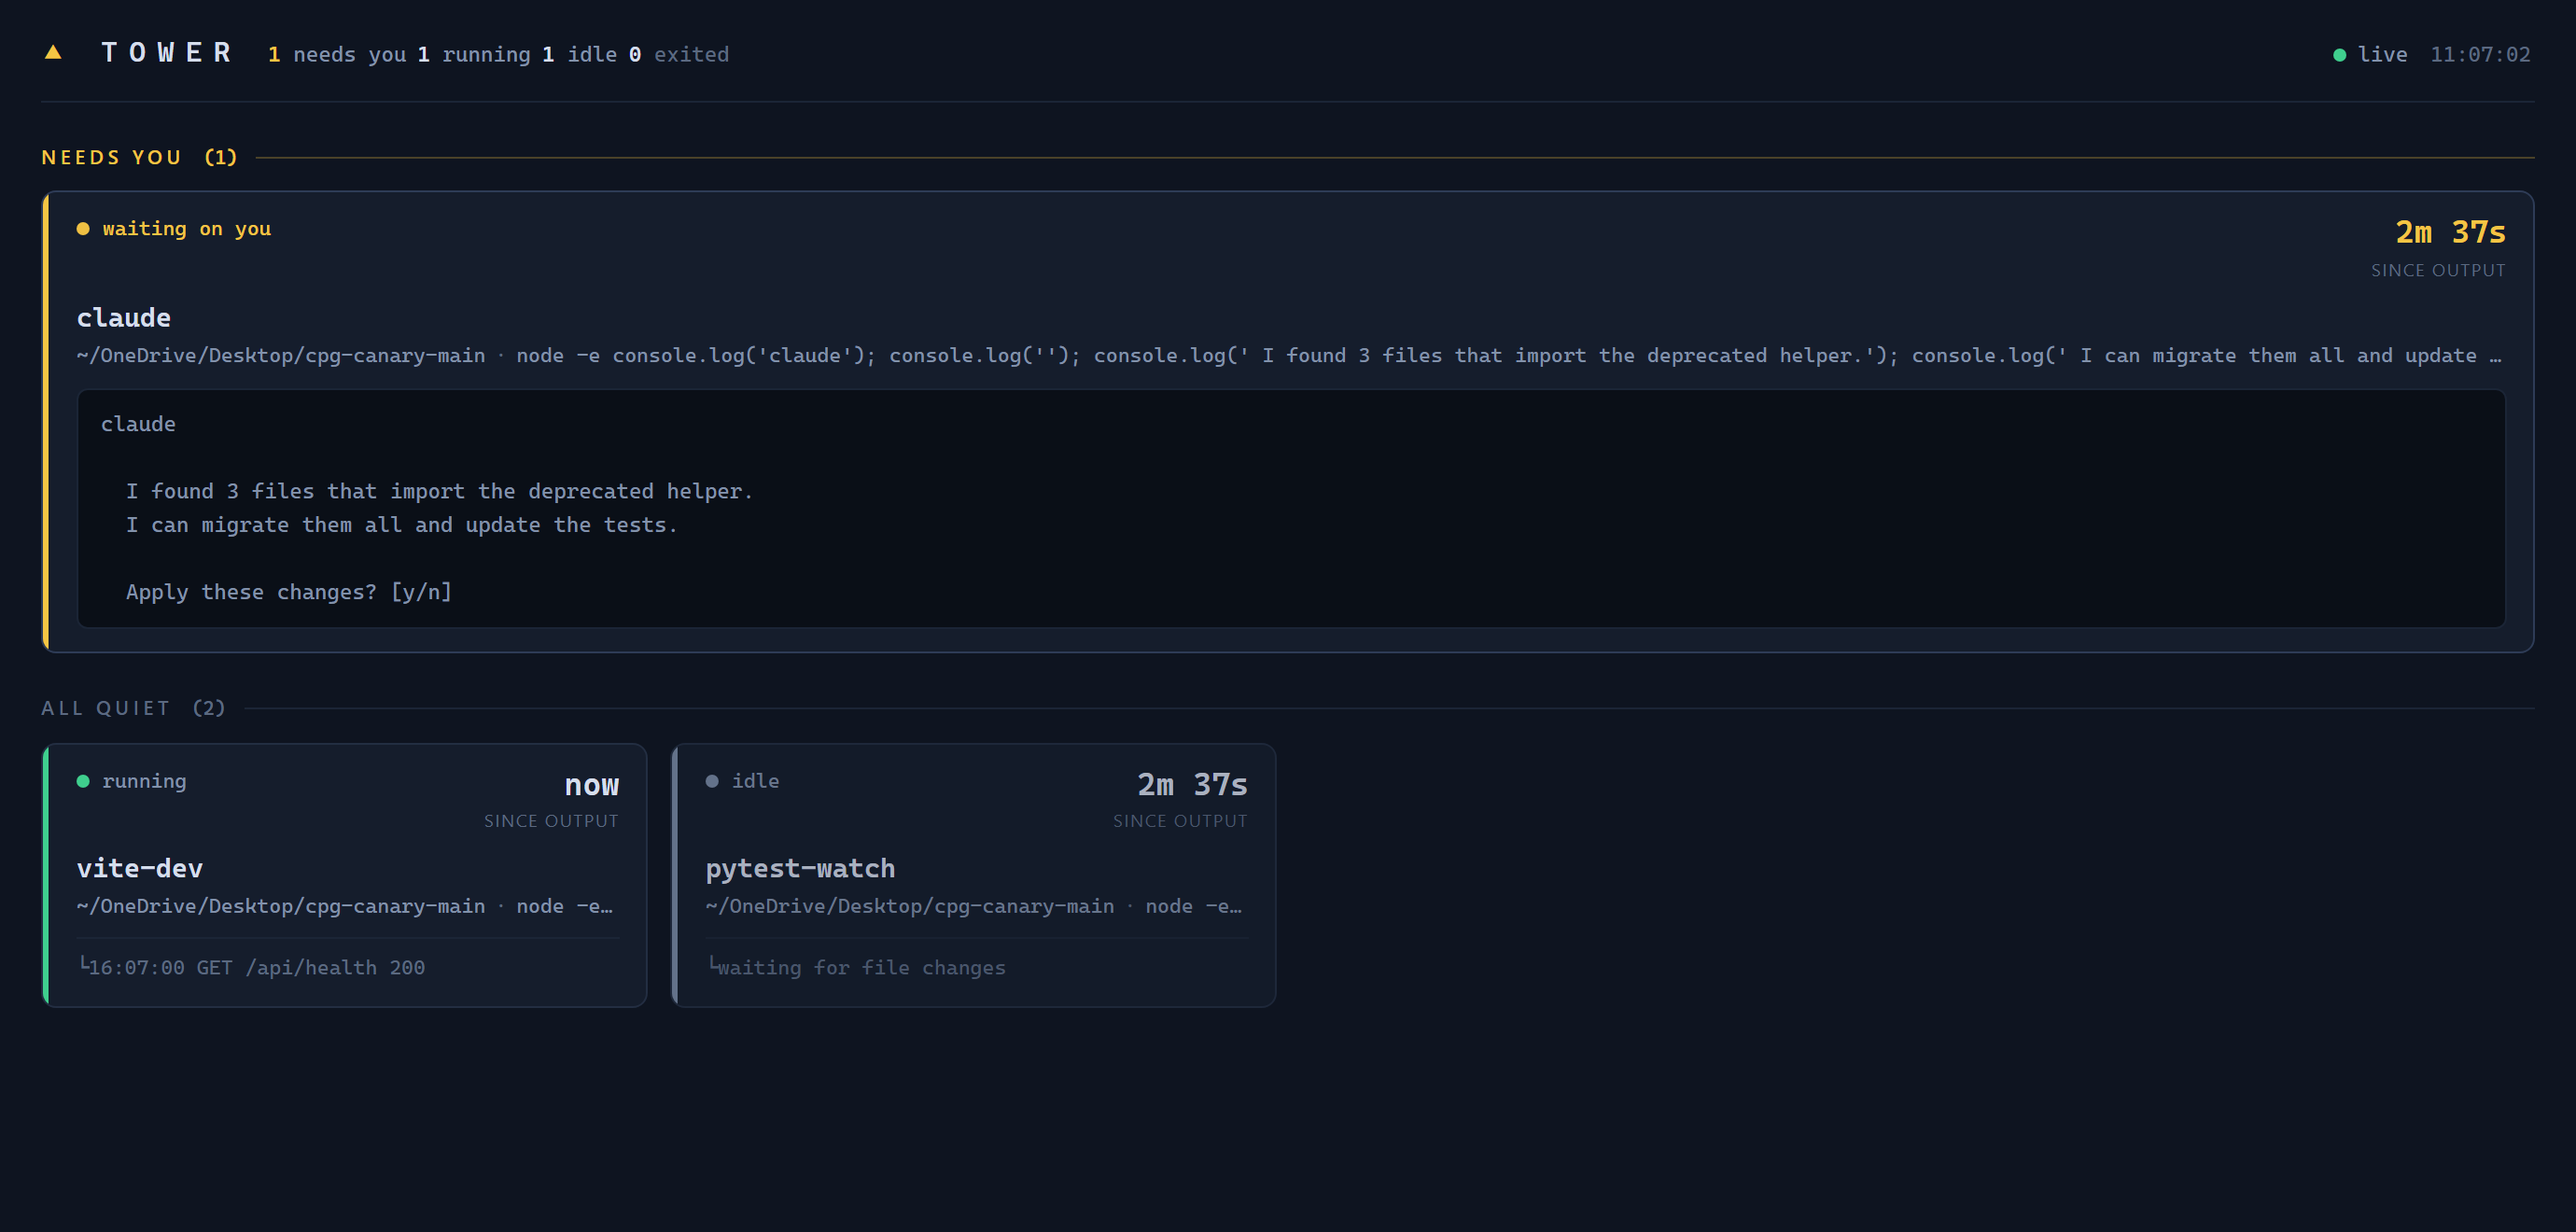
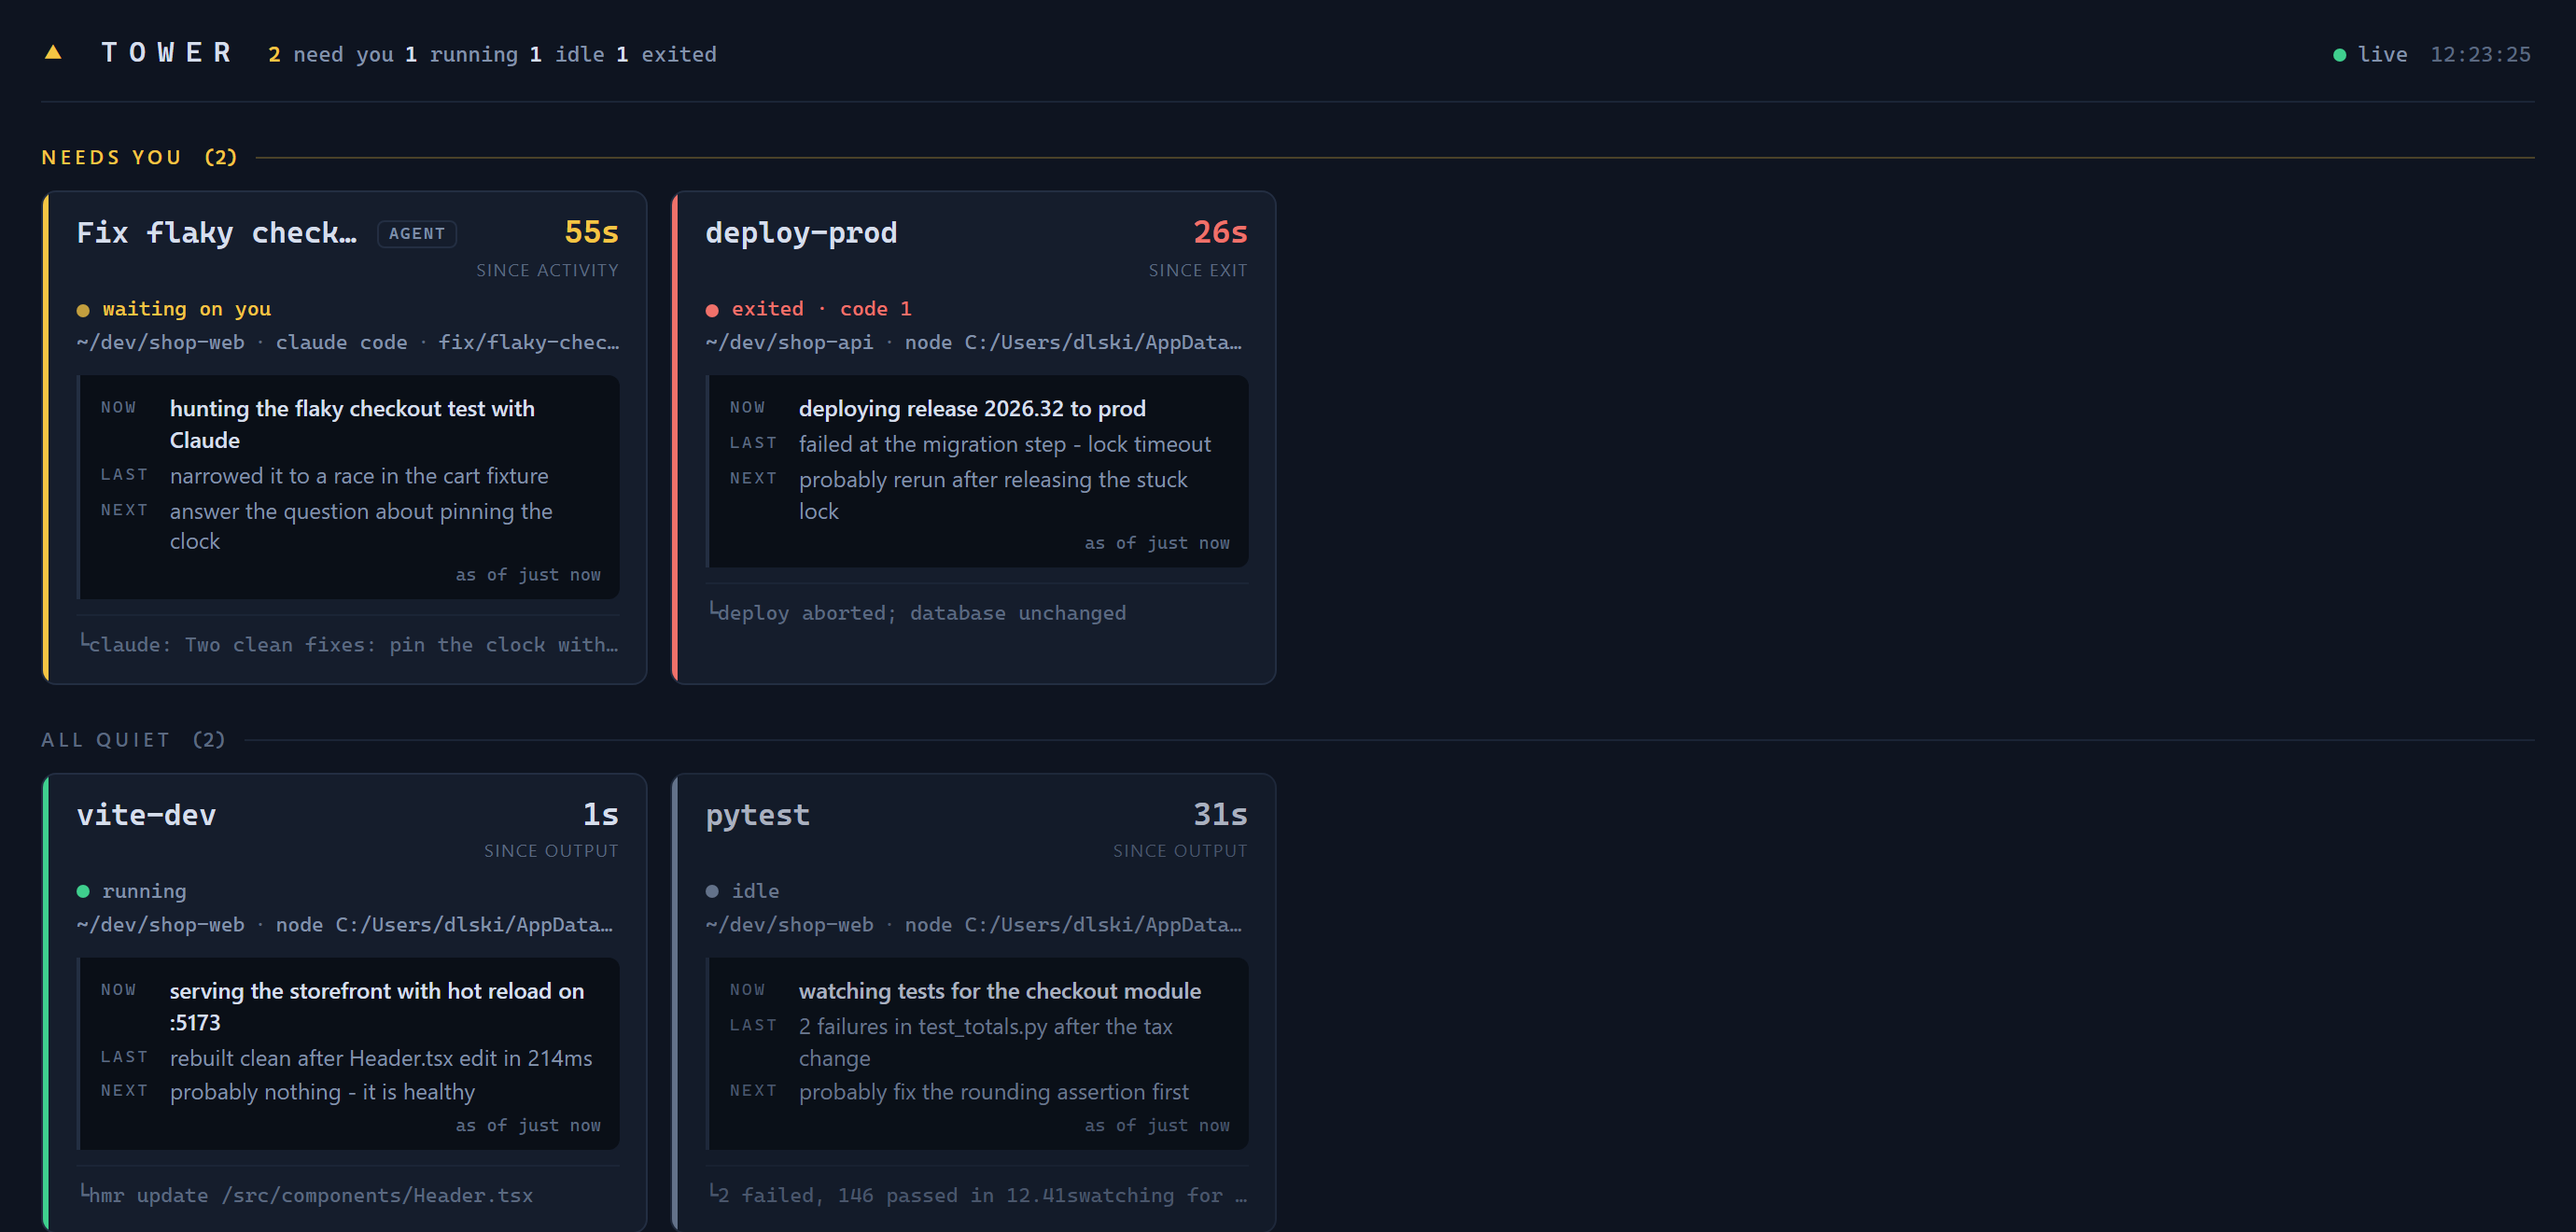
docs: v1.5 README - summaries, Claude Code sessions, privacy note, DECISIONS
New board screenshot staged from synthetic fixtures (no real session
titles). IDEAS.md records the v1.5 non-goals so they stay said no to.

diff --git a/README.md b/README.md
@@ -2,7 +2,7 @@
 
 A live control tower for all of your terminal sessions.
 
-You run a dev server in one terminal, a test watcher in another, an AI coding agent in a third, a build in a fourth. Tower answers one question at a glance: **which of my terminals needs me right now?**
+You run a dev server in one terminal, a test watcher in another, an AI coding agent in a third, a build in a fourth. Tower answers one question at a glance: **which of my terminals needs me right now?** And since v1.5, a second one: **what was I doing in each of them?**
 
 ![status board](docs/board.png)
 
@@ -15,7 +15,7 @@ git clone https://github.com/lloydlabsai/tower && cd tower
 npm i -g .
 ```
 
-Zero config, localhost-only. Nothing leaves your machine.
+Zero config, localhost-only. Without an API key, nothing ever leaves your machine.
 
 ## 60-second demo
 
@@ -30,6 +30,8 @@ tower open                   # the status board
 
 Sessions that need you (waiting for input, or exited with an error) sort to the top. Click a card to see its recent output, live.
 
+Claude Code sessions appear on the board **even without `tower run`** — tower watches their transcript files (see below).
+
 ## Statuses
 
 | status | meaning |
@@ -37,10 +39,49 @@ Sessions that need you (waiting for input, or exited with an error) sort to the 
 | `running` | process alive, output in the last 15 seconds |
 | `idle` | process alive, quiet for a while |
 | `waiting` | the last output line looks like a prompt (`? `, `: `, `[y/n]`, ...) and nothing has been printed since |
+| `active` | (Claude Code sessions) transcript written to in the last 2 minutes |
 | `exited-ok` / `exited-error` | from the exit code |
 | `stale` | the wrapper lost contact; heals automatically on reconnect |
 
-The waiting heuristic is deliberately dumb and easy to tune: it is a short list of regexes in `src/protocol.js`.
+The waiting heuristic is deliberately dumb and easy to tune: it is a short list of regexes in `src/protocol.js`. Claude Code sessions go `waiting` when the assistant asked a question or requested plan approval (`src/claudewatch.js`).
+
+## Summaries — the narrative layer
+
+Bring your own Anthropic API key and every card gains a three-line story above the raw output: what the session is **doing**, what just happened (**last**), and the likely **next** step — so you can re-enter any terminal without scrollback archaeology.
+
+```
+tower config set anthropic_key sk-ant-...   # verified with a 1-token test call
+tower ls                                    # now shows a DOING column
+```
+
+- Summaries refresh only for sessions with meaningfully new output, every `summaries.interval_seconds` (default 180).
+- Each summary carries an "as of Xm ago" stamp. The mechanical status is never derived from summaries.
+- Exited sessions are summarized once (the closing chapter), then left alone.
+- No key: the board is exactly the classic board, plus a one-time dismissible hint.
+
+Config lives in `~/.tower/config.json` (created `0600`); `ANTHROPIC_API_KEY` in the environment also works, the file wins. Knobs:
+
+| key | default | |
+|---|---|---|
+| `anthropic_key` | – | your key; `tower config get` masks it |
+| `summaries.enabled` | `true` | flip off without deleting the key |
+| `summaries.interval_seconds` | `180` | minimum 30 |
+| `summaries.model` | a Haiku-class model | any Anthropic model id |
+| `claude_projects_dir` | `~/.claude/projects` | where Claude Code keeps transcripts |
+
+## Claude Code sessions
+
+The daemon tail-reads `~/.claude/projects/**/*.jsonl` — the transcripts Claude Code already writes — and shows recently-active sessions as cards with an `agent` badge, Claude Code's own session title, the project directory, and the branch. No Claude Code installed means this feature silently does nothing.
+
+- Transcript summaries come from the conversation turns (tool payloads and file dumps are skipped), so they tend to read better than scrollback-derived ones.
+- A session that is *also* wrapped with `tower run claude` becomes one card: the transcript names the story, the wrapper's terminal state decides `waiting`.
+- Cards drop off after 45 minutes of transcript silence.
+
+## Privacy
+
+**Without a key, tower sends nothing anywhere, ever.** No telemetry, no phoning home, no cloud.
+
+With a key configured, the only network traffic is to the Anthropic Messages API (`api.anthropic.com`), and the only payloads are, per summarized session: its name, working directory, command line, up to ~120 recent lines of its terminal output (for Claude Code sessions: recent conversation text turns instead), and the previous summary. Terminal output can contain secrets — that is your terminal, your key, and your call. Requests are capped (~300 output tokens); unchanged sessions are never re-sent.
 
 ## CLI
 
@@ -49,17 +90,20 @@ tower run [--name <name>] <command> [args...]   wrap a command so it shows on th
 tower ls                                        list sessions in the terminal
 tower open                                      open the status board in a browser
 tower kill <name>                               stop a session ("daemon" stops towerd)
+tower config get [key]                          show configuration (secrets masked)
+tower config set <key> <value>                  set a value
+tower config unset <key>                        remove a value
 ```
 
 That is the whole surface.
 
 ## How it works
 
-Three small pieces, about 1,500 lines total:
+Three small pieces, about 2,900 lines total:
 
-- **`towerd`**, a daemon that starts itself the first time you use tower. It keeps the session registry in memory, listens on a Unix domain socket, and serves the board on `http://127.0.0.1:8697`. Last-known state is persisted to `~/.tower/state.json`, so a daemon restart is not amnesia.
+- **`towerd`**, a daemon that starts itself the first time you use tower. It keeps the session registry in memory, listens on a Unix domain socket, and serves the board on `http://127.0.0.1:8697`. The transcript watcher and the summarizer loop live inside it. Last-known state (summaries included) is persisted to `~/.tower/state.json`, so a daemon restart is not amnesia.
 - **the wrapper** (`tower run`) spawns your command in a PTY, passes your terminal through untouched, and streams the last ~200 lines of output to the daemon. If the daemon dies, your process does not; the wrapper reconnects quietly in the background.
-- **the board**, a single HTML page with vanilla JS, updated over server-sent events. Read-only in v1: the board shows your terminals, it never types into them.
+- **the board**, a single HTML page with vanilla JS, updated over server-sent events. Read-only: the board shows your terminals, it never types into them.
 
 No database, no accounts, no cloud, no telemetry.
 
@@ -89,6 +133,17 @@ Boring, conventional choices made during the build, recorded so they are arguabl
 - **Session names are auto-generated from the command** (`npm-run-dev`), deduped with `-2`, `-3`; override with `--name`.
 - **The npm package name is a placeholder and `"private": true` guards it.** `tower-cli` is already taken on npm by an unrelated package; this repo installs from source until a real name is secured.
 - **A signal-killed child exits `128 + signum`** (shell convention) and shows as `exited-error`, even though PTYs report such deaths with exit code 0.
+
+v1.5 additions:
+
+- **Raw `fetch` to the Messages API, no SDK.** The dependency budget stays at one; the entire API surface used is a single POST endpoint. `src/anthropic.js` is ~70 lines.
+- **The model id is config, not code.** It appears exactly once, as the default of `summaries.model`.
+- **Summaries are annotations, never truth.** No status is ever derived from a summary, and every summarizer failure path (bad key, network, malformed output) leaves core tracking untouched. A rejected key surfaces one line and stops retrying until the key changes; other errors back off exponentially.
+- **Transcript cards appear without a key.** The watcher reads local files; the key gates only API calls. "Zero regression without a key" is about behavior and nagging, not about hiding a read-only data source.
+- **Agent `waiting` means an explicit ask** (question tool, plan approval, or trailing `?`), not merely a finished turn. The looser rule felt too shouty; it is parked in IDEAS.
+- **Summaries persist in `state.json`** so a daemon restart does not re-bill unchanged sessions.
+- **`TOWER_DIR` and `TOWER_ANTHROPIC_BASE_URL` env overrides are test seams** (temp state dirs, a local mock API); they are not supported configuration.
+- **Cost posture:** max 6 summary calls per tick, ~120 lines / ~300 output tokens per call, unchanged buffers skipped, exited sessions summarized once. A busy day of summaries costs cents, not dollars.
 
 ## License
 

diff --git a/IDEAS.md b/IDEAS.md
@@ -1,6 +1,18 @@
 # IDEAS
 
-Parking lot for scope creep. Nothing here is v1.
+Parking lot for scope creep. Nothing here is v1 or v1.5.
+
+Explicit non-goals of v1.5, recorded so they stay said no to (for now):
+
+- Inter-session messaging / sending input into sessions — the board stays read-only
+- Model providers besides Anthropic (config key naming is provider-generic; the logic is not)
+- Cloud chat visibility (claude.ai and friends)
+- Summary history / timeline views — only the current summary per session
+- Auth, accounts, telemetry, remote access
+
+Maybe someday:
+
+- Treat a finished Claude Code turn (final assistant text, no question) as `waiting` — "Claude is done, come back" — possibly with a decay window so it does not shout forever
 
 - ANSI color rendering in the board's output pane (currently stripped to plain text)
 - Dismiss/clear an exited card from the board before its 30-minute expiry
